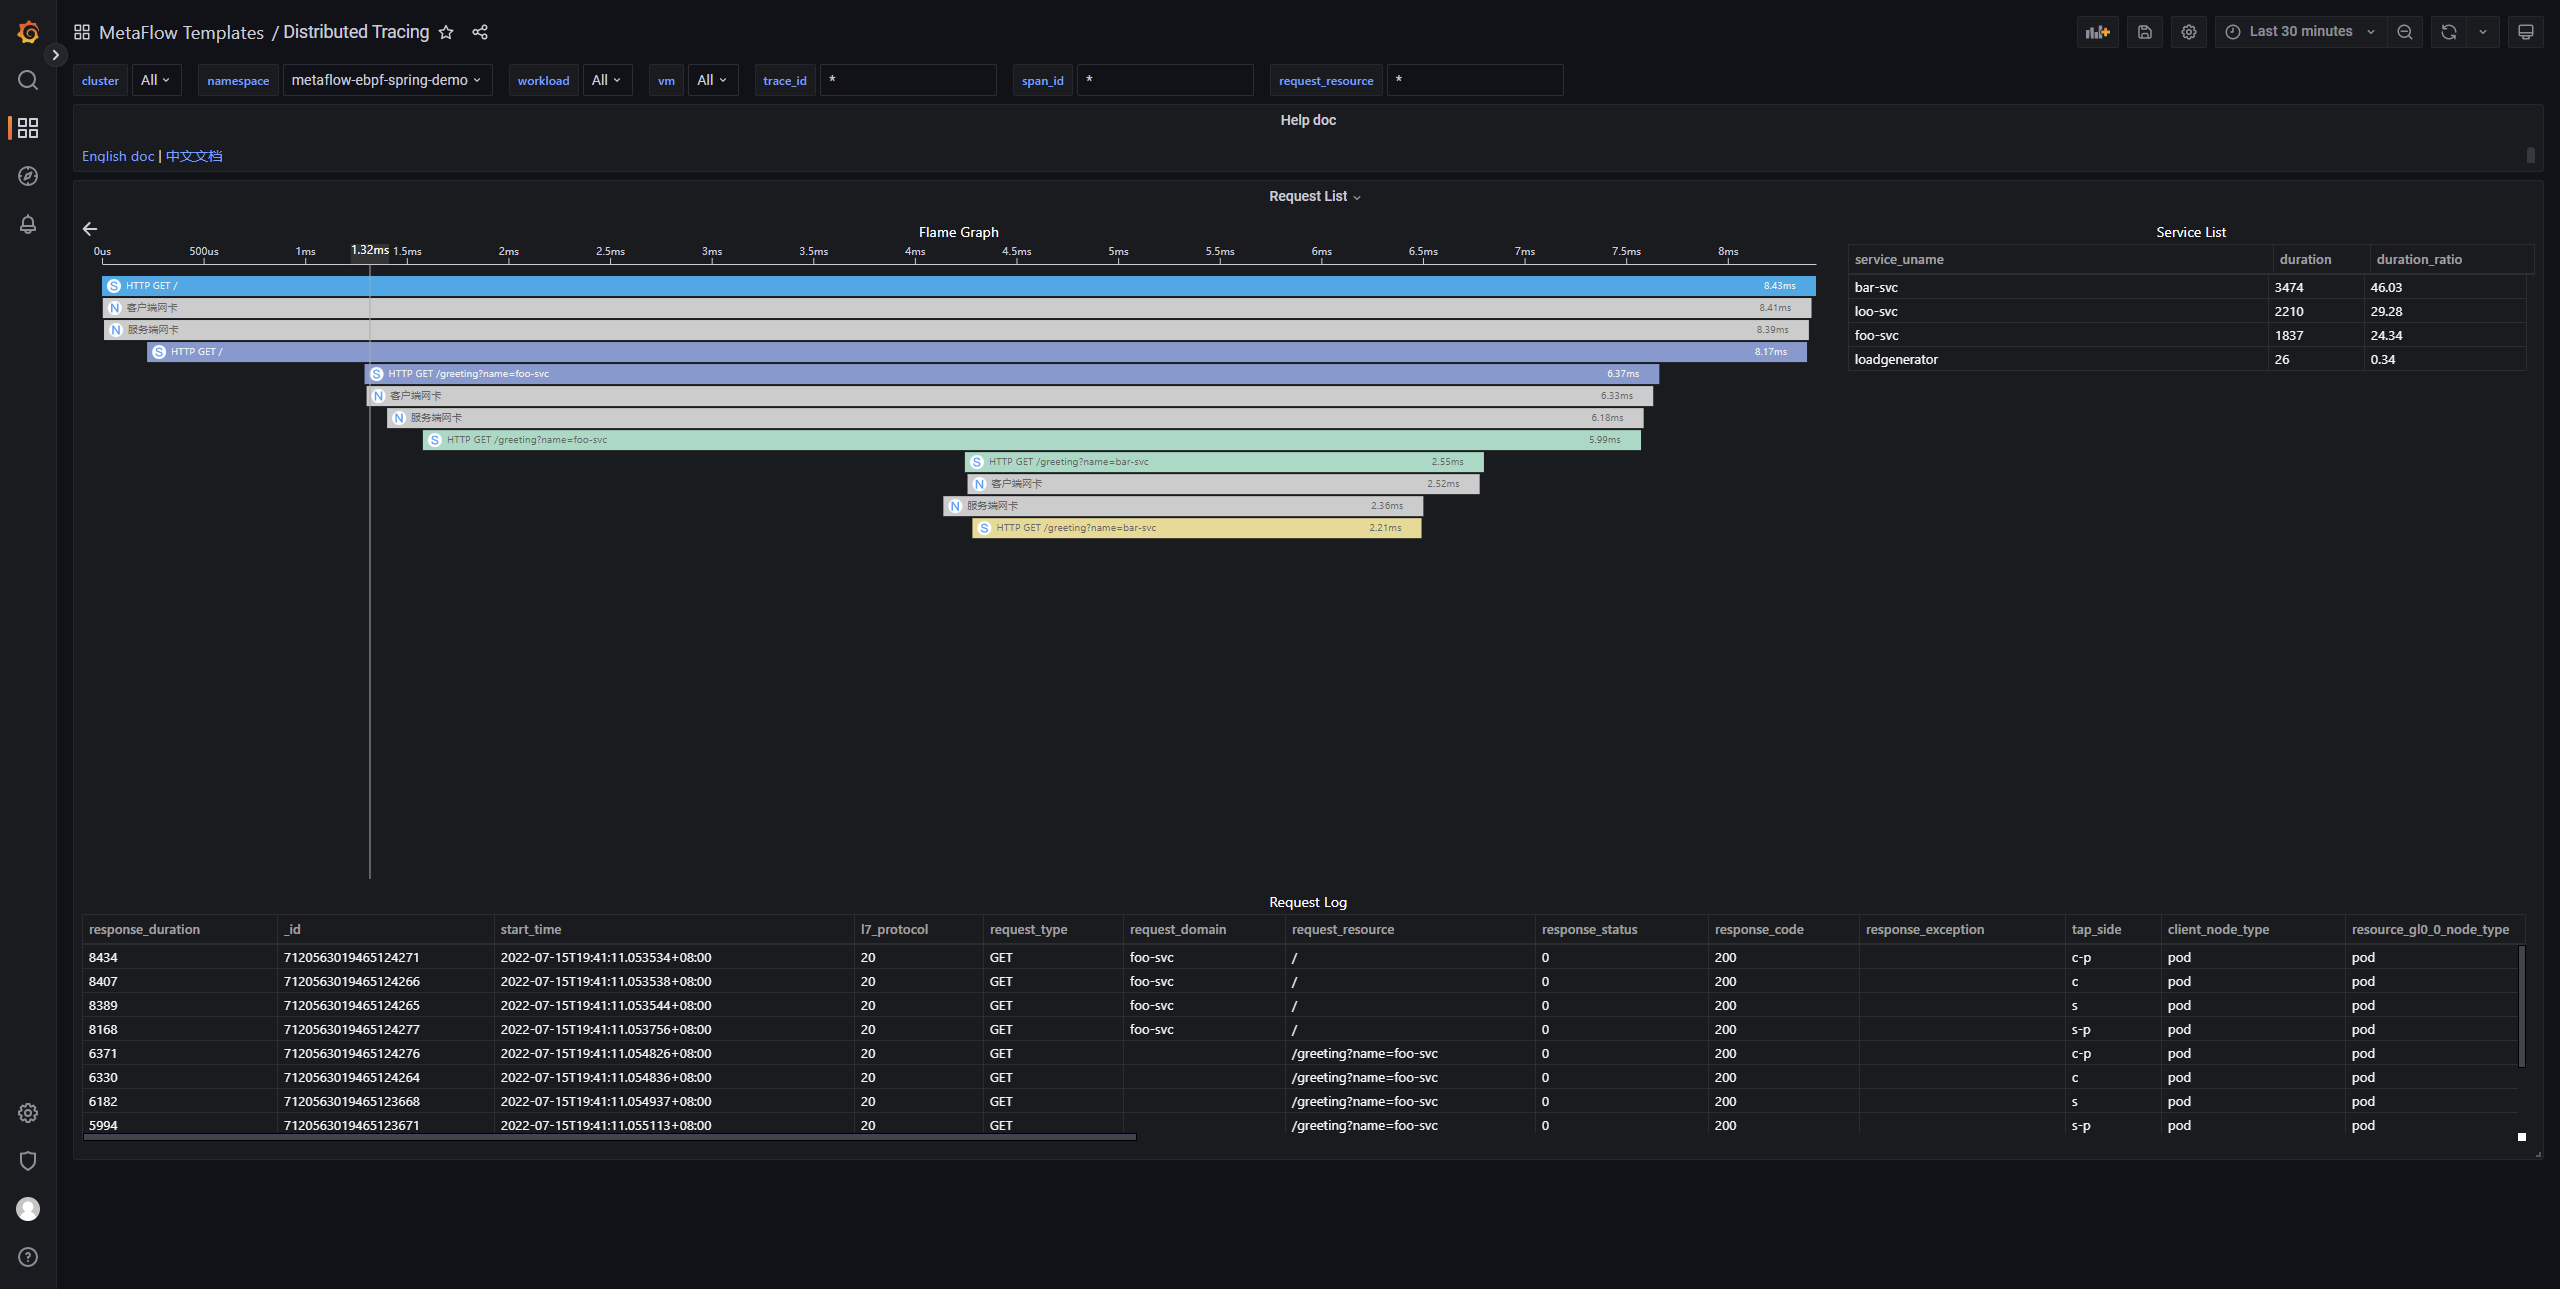
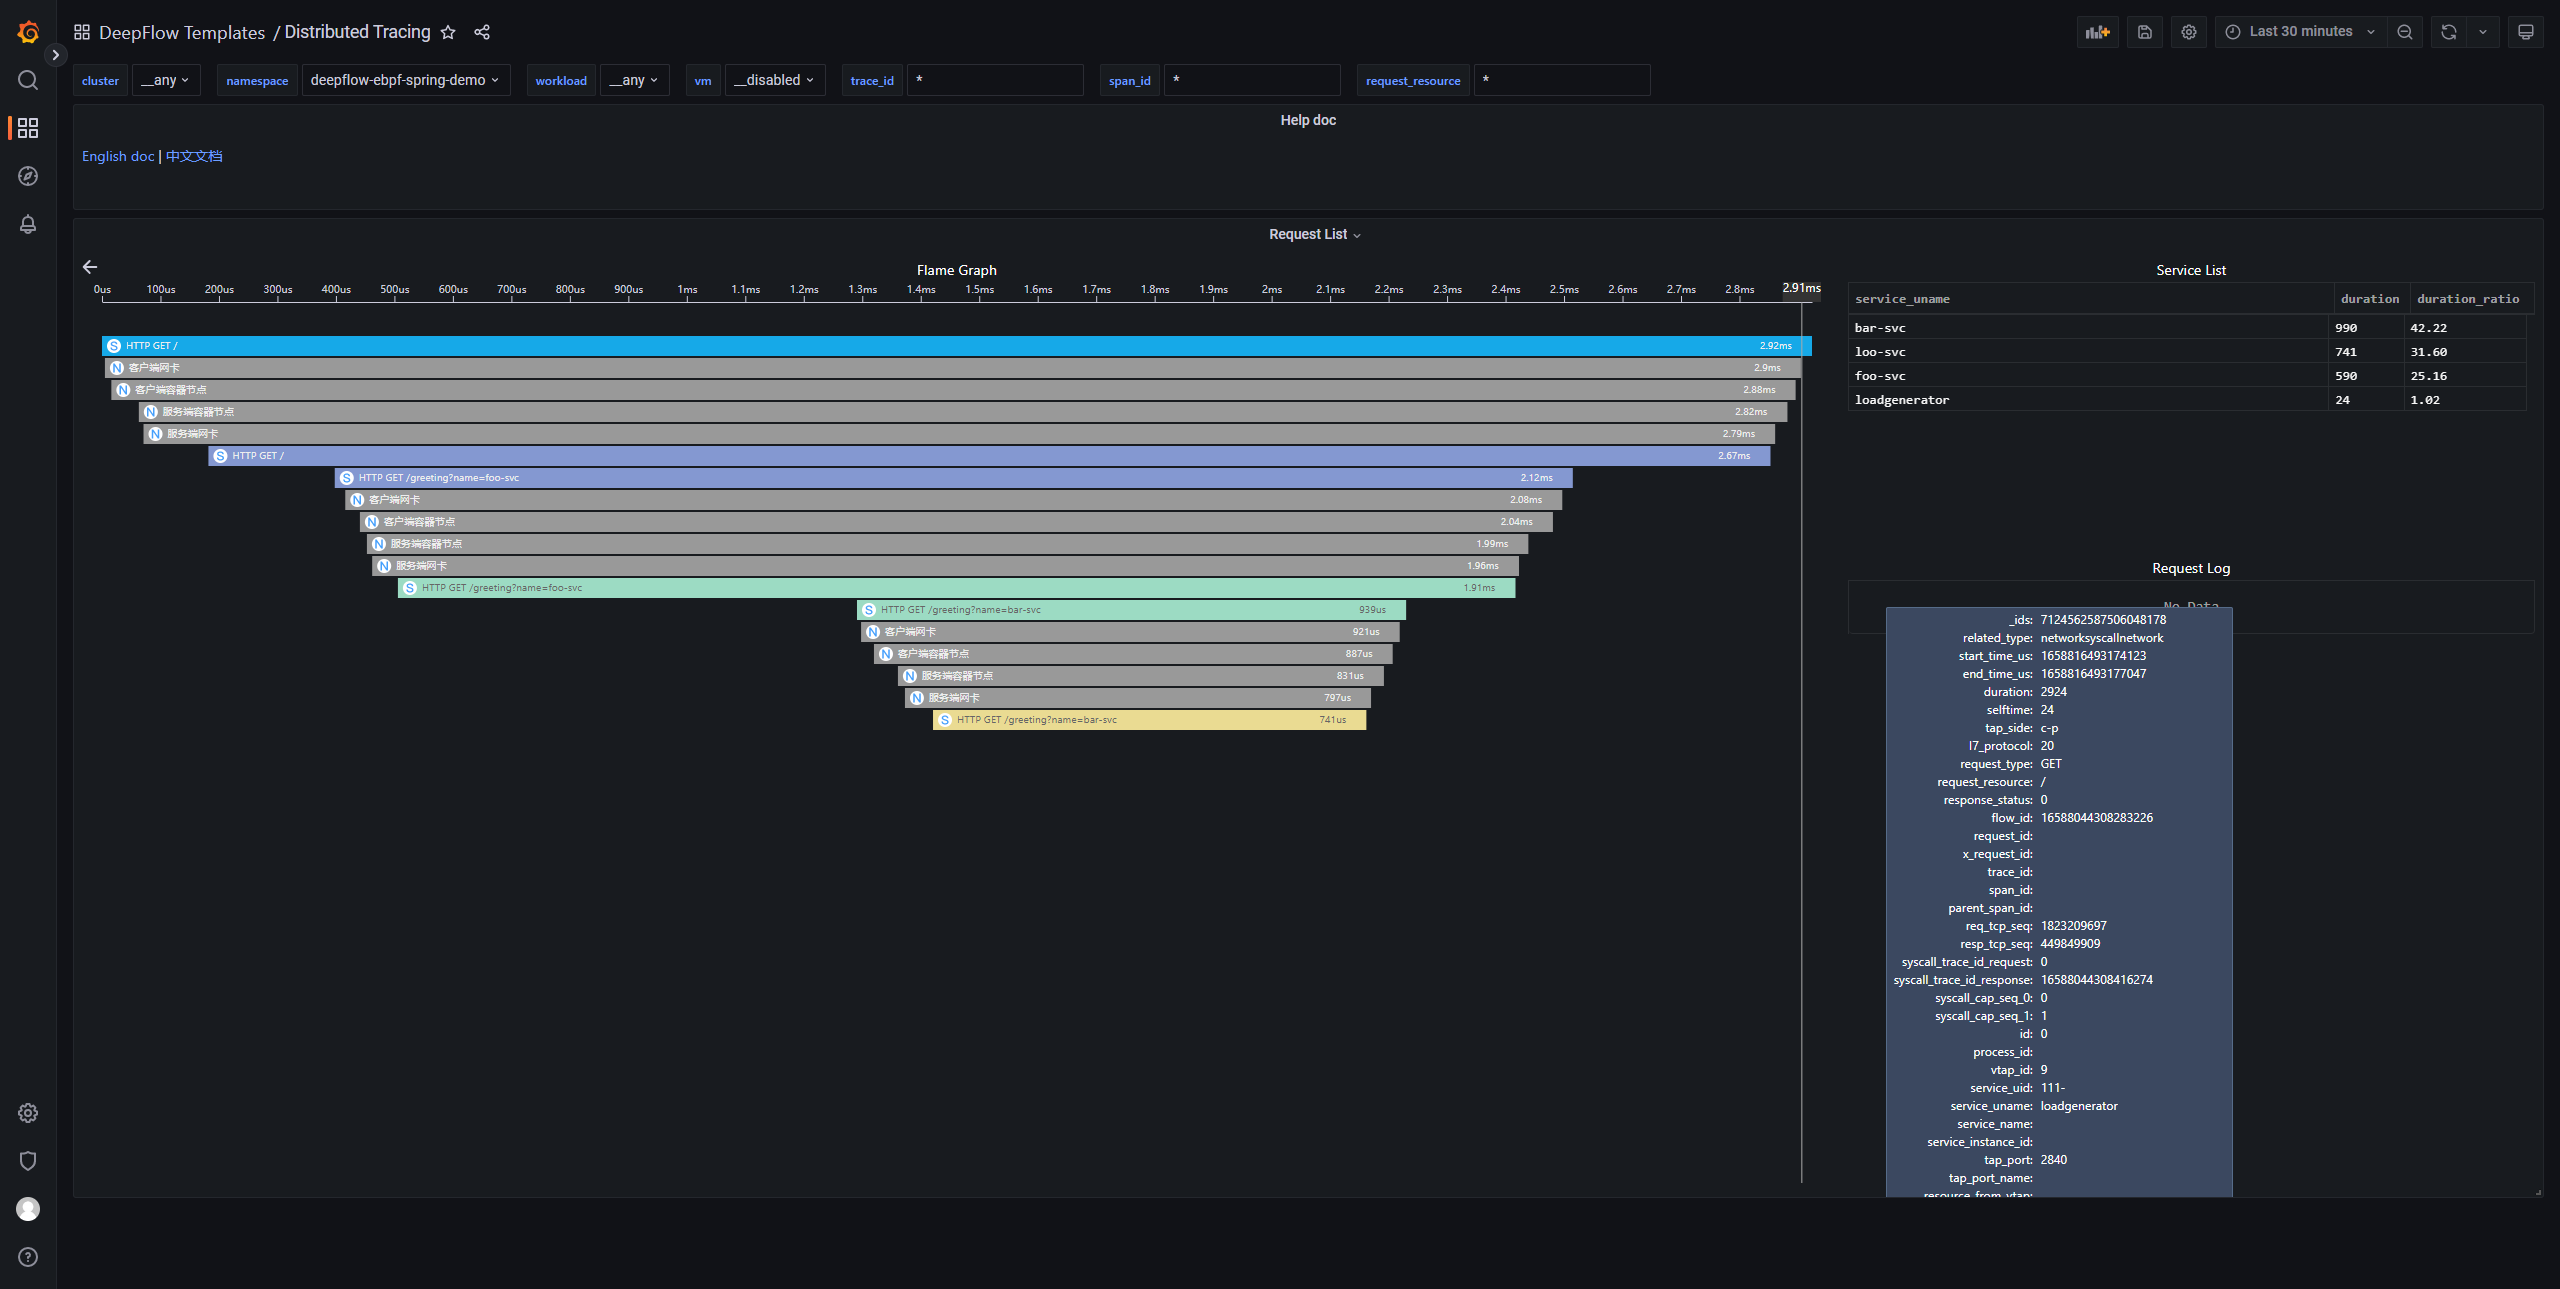
update ebpf demo screenshot and document

diff --git a/docs/zh/04-auto-tracing/02-spring-boot-demo.md b/docs/zh/04-auto-tracing/02-spring-boot-demo.md
@@ -10,7 +10,7 @@ permalink: /auto-tracing/spring-boot-demo
 # 部署 Spring Boot Demo
 
 我们使用的 Demo 源自[这个 GitHub 仓库](https://github.com/chanjarster/spring-boot-istio-jaeger-demo)，
-它的调用链比较简单：`foo_svc -> bar_svc -> loo_svc -> redis`。
+它的调用链比较简单：`foo_svc -> bar_svc -> loo_svc`。
 
 使用如下命令可在 K8s 中快速部署 Demo：
 ```bash
@@ -33,3 +33,90 @@ DeepFlow 的追踪数据中含有三种 Span，跟踪一次请求的整个轨迹
 上图中展示了前两种，第三种在[集成 OpenTelemetry](../agent-integration/tracing/opentelemetry/) 可以展示出来。
 
 [访问 DeepFlow Online Demo](https://ce-demo.deepflow.yunshan.net/d/Distributed_Tracing/distributed-tracing?var-namespace=deepflow-ebpf-spring-demo&from=deepflow-doc) 也可查看追踪效果。
+上图中的调用链火焰图对应的拓扑图如下。
+
+```mermaid
+flowchart TD
+
+loadgenerator_curl_send(1-eBPF: loadgenerator curl send):::loadgenerator
+loadgenerator_vnic_send(2-BPF: loadgenerator vnic send):::nic
+node2_nic_send_lg(3-BPF: node2 nic send loadgenerator):::nic
+node1_nic_recv_lg(4-BPF: node1 nic recv loadgenerator):::nic
+
+foo_vnic_recv(5-BPF: foo vnic recv):::nic
+foo_java_recv(6-eBPF: foo java recv):::foo
+foo_java_send(7-eBPF: foo java send):::foo
+foo_vnic_send(8-BPF: foo vnic send):::nic
+node1_nic_send_foo(9-BPF: node1 nic send foo):::nic
+node2_nic_recv_foo(10-BPF: node2 nic recv foo):::nic
+
+bar_vnic_recv(11-BPF: bar vnic recv):::nic
+bar_java_recv(12-eBPF: bar java recv):::bar
+bar_java_send(13-eBPF: bar java send):::bar
+bar_vnic_send(14-BPF: bar vnic send):::nic
+node2_nic_send_bar(15-BPF: node2 nic send bar):::nic
+node1_nic_recv_bar(16-BPF: node1 nic recv bar):::nic
+
+loo_vnic_recv(17-BPF: loo vnic recv):::nic
+loo_java_recv(18-eBPF: loo java recv):::loo
+
+subgraph k8s node2
+    subgraph loadgenerator pod
+        loadgenerator_curl_send
+    end
+
+    loadgenerator_vnic_send
+    node2_nic_send_lg
+
+    node2_nic_recv_foo
+    bar_vnic_recv
+
+    subgraph bar pod
+        bar_java_recv
+        bar_java_send
+    end
+
+    bar_vnic_send
+    node2_nic_send_bar
+end
+
+subgraph k8s node1
+    node1_nic_recv_lg
+    foo_vnic_recv
+
+    subgraph foo pod
+        foo_java_recv
+        foo_java_send
+    end
+
+    foo_vnic_send
+    node1_nic_send_foo
+
+    node1_nic_recv_bar
+    loo_vnic_recv
+
+    subgraph loo pod
+        loo_java_recv
+    end
+end
+
+loadgenerator_curl_send --> loadgenerator_vnic_send --> node2_nic_send_lg -->|IPIP encap| node1_nic_recv_lg --> foo_vnic_recv
+
+foo_vnic_recv --> foo_java_recv --> foo_java_send --> foo_vnic_send --> node1_nic_send_foo -->|IPIP encap| node2_nic_recv_foo --> bar_vnic_recv
+
+bar_vnic_recv --> bar_java_recv --> bar_java_send --> bar_vnic_send --> node2_nic_send_bar -->|IPIP encap| node1_nic_recv_bar --> loo_vnic_recv
+
+loo_vnic_recv --> loo_java_recv
+
+classDef loadgenerator fill:#16a9e8,color:white;
+classDef nic fill:#a1a1a1,color:white;
+classDef foo fill:#8498d1,color:white;
+classDef bar fill:#9cdbc3,color:black;
+classDef loo fill:#eadb92,color:black;
+```
+
+对这个追踪 Demo 我们总结一下：
+- 零插码：整个追踪过程不需要手动插入任何追踪代码，不需要向 HTTP Header 中注入任何 TraceID/SpanID
+- 多语言：支持对 Java 语言应用及 C（curl）语言基础服务的追踪
+- 全链路：利用 eBPF 和 BPF，自动追踪到了这个 Trace 的 18 个 Span，含 6 个 eBPF Span、12 个 BPF Span
+- 全栈：支持追踪跨 K8s Node 上两个 Pod 之间的网络路径，即使中间经过了隧道封装，例如 Span 2-5 等（IPIP 隧道封装）

diff --git a/docs/zh/06-agent-integration/02-tracing/03-opentelemetry.md b/docs/zh/06-agent-integration/02-tracing/03-opentelemetry.md
@@ -444,18 +444,18 @@ classDef webshop_1 fill:#8498d1,color:white;
 classDef webshop_2 fill:#45b0d6,color:white;
 classDef svcuser fill:#9cdbc3,color:black;
 classDef svcorder fill:#16a9e8,color:white;
-classDef svcitem fill:#eadbc4,color:black;
+classDef svcitem fill:#eadb92,color:black;
 classDef svcstock fill:#49b292,color:white;
 classDef dbdemo fill:#aa48bc,color:black;
 ```
 
 对这个追踪 Demo 我们总结一下：
-- 集成 OTel、eBPF 和 BPF，自动追踪到了这个 Trace 的 96 个 Span，含 20 个 eBPF Span、30 个 BPF Span
-- 对 OTel 无插码的服务，支持通过 eBPF 自动追踪补齐，例如 Span 1-6（loadgenerator）等
-- 对 OTel 无法插码的服务，支持通过 eBPF 自动追踪补齐，例如 Span 65、96 的 eBPF Span 描绘出了 MySQL Transaction 的开始和结束（SET autocommit、commit）
-- 支持追踪同 K8s Node 上两个 Pod 之间的网络路径，例如 Span 89-90 等
-- 支持追踪跨 K8s Node 上两个 Pod 之间的网络路径，即使中间经过了隧道封装，例如 Span 2-5 等（IPIP 隧道封装）
-- eBPF 和 BPF Span 穿插在 OTel Span 之间，让追踪无盲点，例如 eBPF Span 12、27、41、53 与它们的父 Span（OTel）的显著时差可用于确定真实的性能瓶颈，避免上下游应用开发团队的迷惑
+- 全链路：集成 OTel、eBPF 和 BPF，自动追踪到了这个 Trace 的 96 个 Span，含 20 个 eBPF Span、30 个 BPF Span
+- 全链路：对 OTel 无插码的服务，支持通过 eBPF 自动追踪补齐，例如 Span 1-6（loadgenerator）等
+- 全链路：对 OTel 无法插码的服务，支持通过 eBPF 自动追踪补齐，例如 Span 65、96 的 eBPF Span 描绘出了 MySQL Transaction 的开始和结束（SET autocommit、commit）
+- 全栈：支持追踪同 K8s Node 上两个 Pod 之间的网络路径，例如 Span 89-90 等
+- 全栈：支持追踪跨 K8s Node 上两个 Pod 之间的网络路径，即使中间经过了隧道封装，例如 Span 2-5 等（IPIP 隧道封装）
+- 无盲点：eBPF 和 BPF Span 穿插在 OTel Span 之间，让追踪无盲点，例如 eBPF Span 12、27、41、53 与它们的父 Span（OTel）的显著时差可用于确定真实的性能瓶颈，避免上下游应用开发团队的迷惑
 
 # 基于 OpenTelemetry WebStore Demo 体验
 

diff --git a/docs/zh/04-auto-tracing/03-istio-bookinfo-demo.md b/docs/zh/04-auto-tracing/03-istio-bookinfo-demo.md
@@ -201,7 +201,7 @@ ratings_vnic_recv --> ratings_envoy_ingress_recv --> ratings_envoy_ingress_send 
 classDef loadgenerator fill:#8498d1,color:white;
 classDef nic fill:#a1a1a1,color:white;
 classDef productpage_1 fill:#9cdbc3,color:black;
-classDef productpage_2 fill:#eadbc4,color:black;
+classDef productpage_2 fill:#eadb92,color:black;
 classDef details_1 fill:#16a9e8,color:white;
 classDef details_2 fill:#b38ebc,color:white;
 classDef reviews_1 fill:#49b292,color:white;
@@ -211,9 +211,9 @@ classDef ratings_2 fill:#aa48bc,color:black;
 ```
 
 对这个追踪 Demo 我们总结一下：
-- 整个追踪过程不需要手动插入任何追踪代码，不需要向 HTTP Header 中注入任何 TraceID/SpanID
-- 利用 eBPF 和 BPF，自动追踪到了这个 Trace 的 38 个 Span，含 24 个 eBPF Span、14 个 BPF Span
-- 支持对 Java、Python、Ruby、NodeJS 应用及 Envoy (C++) 的追踪
-- 支持追踪一个 Pod 内部从 Envoy Ingress、服务进程、Envoy Egress 的全过程，例如 Span 6-11 等
-- 支持追踪同 K8s Node 上两个 Pod 之间的网络路径，例如 Span 4-5 等
-- 支持追踪跨 K8s Node 上两个 Pod 之间的网络路径，即使中间经过了隧道封装，例如 Span 12-15 等（IPIP 隧道封装）
+- 零插码：整个追踪过程不需要手动插入任何追踪代码，不需要向 HTTP Header 中注入任何 TraceID/SpanID
+- 多语言：支持对 Java、Python、Ruby、NodeJS 语言应用及 C/C++（curl/envoy）语言基础服务的追踪
+- 全链路：利用 eBPF 和 BPF，自动追踪到了这个 Trace 的 38 个 Span，含 24 个 eBPF Span、14 个 BPF Span
+- 全栈：支持追踪同 K8s Node 上两个 Pod 之间的网络路径，例如 Span 4-5 等
+- 全栈：支持追踪跨 K8s Node 上两个 Pod 之间的网络路径，即使中间经过了隧道封装，例如 Span 12-15 等（IPIP 隧道封装）
+- 全栈：支持追踪一个 Pod 内部从 Envoy Ingress、服务进程、Envoy Egress 的全过程，例如 Span 6-11 等
